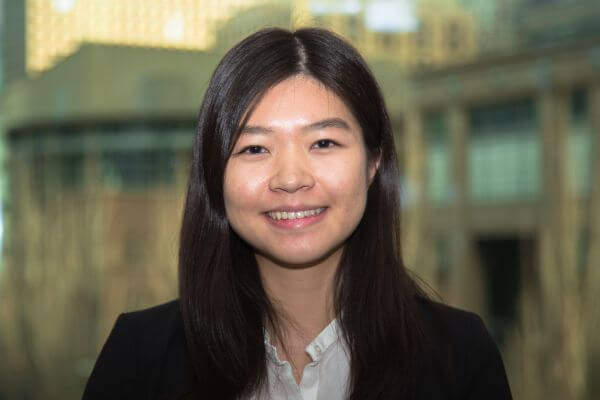
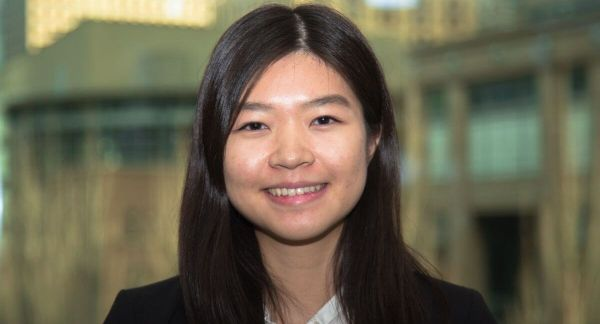
Update about page
Based on 12/24 career specialist call

diff --git a/about.html b/about.html
@@ -112,48 +112,51 @@
       <div class="about-container">
 
         <!-- About Header -->
-        <h1 id="my-story">My story 💌</h1>
+        <h1>My story 💌</h1>
 
-        <!-- About Description-->
-        <div>
-          <h5>
-            My name is <b>Tina Cai</b> - I'm a Seattle based <b>UX designer & developer looking to grow in the design
-              world.</b> 🌎
-          </h5>
-          <h5>
-            I'm an ex-electrical engineer who realized my interests lied in engineering user experiences, not electrical
-            systems.
-          </h5>
-          <h5>
-            As a woman having worked in a male-dominant field, I learned we should always be inclusive of anybody and
-            everybody. I design to improve lives and experiences through <b>empathy, perspective, and retrospect.</b>
-          </h5>
-          <h5>
-            I enjoy working with a project from conception to development. In my spare time, I dabble in 
-            front-end development. I aim to explore the field further and form a <b>hybrid role of UX designer
-              with developer experience.</b>
-          </h5>
-          <h5>
-            Outside of design and development, I like to spend my free time <b>playing video games and cooking!</b>
-            🎮+🍳
-          </h5>
-        </div>
+        <section>
+          <!-- About Picture -->
+          <div>
+            <picture>
+              <source srcset="img/about/self_portrait@1x.jpg" media="(max-width:767px)">
+              <img src="img/about/self_portrait@2x.jpg" id="about-picture" alt="Photo of Tina Cai">
+            </picture>
+          </div>
 
-        <!-- Resume Button -->
-        <div class="ripple-button" id="my-resume-button">
-          <a href="files/Cai_Tina_Resume.pdf" target="_blank">
-            <span></span>
-            My Resume
-          </a>
-        </div>
+          <!-- About Description-->
+          <div>
+            <h5>
+              My name is <b>Tina Cai</b> - I'm a Seattle based <b>UX designer & developer looking to grow in the design
+                world.</b> 🌎
+            </h5>
+            <h5>
+              I'm an ex-electrical engineer who realized my interests lied in engineering user experiences, not electrical
+              systems.
+            </h5>
+            <h5>
+              As a woman having worked in a male-dominant field, I learned we should always be inclusive of anybody and
+              everybody. I design to improve lives and experiences through <b>empathy, perspective, and retrospect.</b>
+            </h5>
+            <h5>
+              I enjoy working with a project from conception to development. In my spare time, I dabble in 
+              front-end development. I aim to explore the field further and form a <b>hybrid role of UX designer
+                with developer experience.</b>
+            </h5>
+            <h5>
+              Outside of design and development, I like to spend my free time <b>playing video games and cooking!</b>
+              🎮+🍳
+            </h5>
+          </div>
 
-        <!-- About Picture -->
-        <div>
-          <picture>
-            <source srcset="img/about/self_portrait@1x.jpg" media="(max-width:767px)">
-            <img src="img/about/self_portrait@2x.jpg" id="about-picture" alt="Photo of Tina Cai">
-          </picture>
-        </div>
+          <!-- Resume Button -->
+          <div class="ripple-button" id="my-resume-button">
+            <a href="files/Cai_Tina_Resume.pdf" target="_blank">
+              <span></span>
+              My Resume
+            </a>
+          </div>
+        </section>
+
       </div>
     </div>
   </main>

diff --git a/css/style.css b/css/style.css
@@ -599,13 +599,8 @@ ul > li:last-child {
   margin-top: 5.5em;
 }
 
-#my-story {
-  margin-bottom: 0.5em;
-}
-
 #about-picture {
   border-radius: 1em;
-  margin-bottom: 10em;
 }
 
 #my-resume-button {
